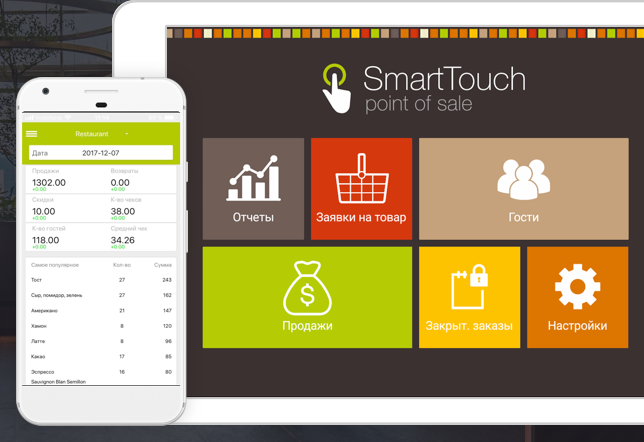
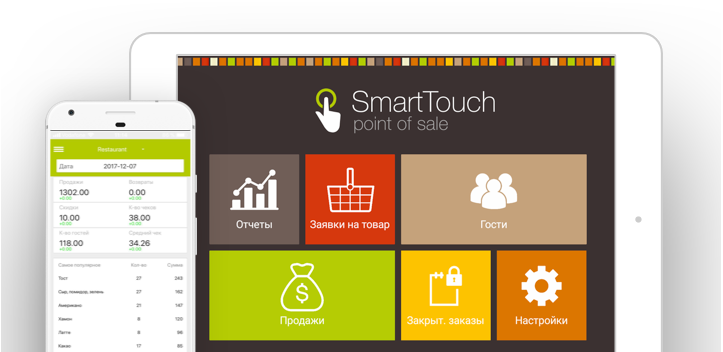
Corrections made

diff --git a/public/css/main.css b/public/css/main.css
@@ -1753,7 +1753,9 @@ label {
         display: block;
         width: 21.4rem;
         margin-left: auto;
-        margin-right: auto; } }
+        margin-right: auto;
+        margin-top: 1.6rem;
+        margin-bottom: 2rem; } }
   @media (min-width: 768px) {
     .first-screen-home {
       height: 64rem;
@@ -1775,7 +1777,6 @@ label {
       .first-screen-home .btn-primary {
         display: inline-block;
         width: 21.4rem;
-        margin-top: 1.6rem;
         margin-bottom: 0; }
       .first-screen-home .image {
         display: none; } }
@@ -2387,54 +2388,49 @@ label {
   right: 0;
   top: 0;
   bottom: 0;
-  padding-top: 6rem;
-  background-color: #fafbfc;
+  padding: 6rem 2.4rem 2.4rem;
   display: flex;
   flex-direction: column;
   justify-content: space-around;
   align-items: center;
   color: rgba(20, 22, 34, 0.87);
   text-align: center; }
-  .form-success .btn-transparent {
+  .form-success .btn-text {
     align-self: flex-start;
     width: auto;
     font-size: 2.4rem;
     font-weight: bold;
     text-transform: capitalize;
     color: rgba(20, 22, 34, 0.87); }
-    .form-success .btn-transparent:hover {
-      color: #0069ff; }
-    .form-success .btn-transparent img {
+    .form-success .btn-text:hover {
+      opacity: 0.6; }
+    .form-success .btn-text img {
       margin-right: .4rem;
       margin-bottom: .4rem; }
   .form-success .image {
-    height: 31rem;
-    width: 39.5rem;
-    border: 1px solid #000; }
+    max-width: 36.8rem; }
   .form-success h2 {
     margin: 0;
     font-size: 3.2rem;
     font-weight: 300;
     line-height: 4.4rem; }
   .form-success p {
-    width: 36rem;
+    max-width: 37rem;
     font-size: 1.4rem;
     line-height: 2rem;
     text-align: center; }
   .form-success .btn-primary {
-    width: 12rem;
-    margin-bottom: 2rem;
-    background-color: #0069ff;
-    color: #fff; }
-    .form-success .btn-primary:hover {
-      background-color: #3387ff; }
+    width: 12rem; }
+  @media (max-height: 544px) {
+    .form-success .image {
+      width: 10rem; } }
   @media (min-width: 768px) {
     .form-success {
       padding-top: 7.5rem; }
-      .form-success .btn-transparent {
+      .form-success .btn-text {
         margin-left: 5%; } }
   @media (min-width: 1024px) {
-    .form-success .btn-transparent {
+    .form-success .btn-text {
       margin-left: 7.2rem;
       font-size: 2.8rem; }
     .form-success h2 {

diff --git a/public/html/equipment.html b/public/html/equipment.html
@@ -553,20 +553,13 @@
     </section>
 
     <section class="section cta-section" id="subscribe">
-      <div class="container">
-      	<h2 class="section-heading">Подключайтесь бесплатно!</h2>
-      </div>
       <div class="cta-row-wrapper">
         <div class="container">
           <div class="row cta-row">
             <div class="col m-4 l-6">
               <div class="col-inner">
                 <h3 class="second-heading">Зарегистрируйтесь сейчас и получите гарантированную скидку 5%</h3>
-                <p class="description">Хотите увидеть работу системы своими глазами? Оставьте заявку на бесплатный тест.
-                  Наш специалист свяжется
-                  с вами, проведёт презентацию приложений SmartTouch POS и поможет подключиться. За 14 дней пробного
-                  периода
-                  вы получите первые результаты от автоматизации бизнеса.</p>
+                <p class="description">Хотите увидеть работу системы своими глазами? Оставьте заявку на бесплатный тест. Наш специалист свяжется с вами, проведёт презентацию приложений SmartTouch POS и поможет подключиться. За 14 дней пробного периода вы получите первые результаты от автоматизации бизнеса.</p>
               </div>
             </div>
             <div class="col m-8 l-6 cta-form-wrapper">
@@ -814,11 +807,11 @@
     </div>
   </footer>
 
-  <!-- ----- Modal ----- -->
+  <!-- ===== Modal ===== -->
   <div class="modal-holder hide" id="ctaForm">
     <div class="modal">
       <div class="cta-form card">
-        <form action="">
+        <form>
 
           <h5 class="form-label">Заполните форму:</h5>
           <div class="row">

diff --git a/public/scss/modules/_form-success.scss b/public/scss/modules/_form-success.scss
@@ -4,8 +4,7 @@
 	right: 0;
 	top: 0;
 	bottom: 0;
-	padding-top: 6rem;
-	background-color: #fafbfc;
+	padding: 6rem 2.4rem 2.4rem;
 	display: flex;
 	flex-direction: column;
 	justify-content: space-around;
@@ -13,7 +12,7 @@
 	color: rgba(20, 22, 34, 0.87);
 	text-align: center;
 
-	.btn-transparent {
+	.btn-text {
 		align-self: flex-start;
 		width: auto;
 		font-size: 2.4rem;
@@ -22,7 +21,7 @@
 		color: rgba(20,22,34,0.87);
 
 		&:hover {
-			color: $btn-primary;
+			opacity: 0.6;
 		}
 
 		img {
@@ -32,15 +31,8 @@
 	}
 
 	.image {
-		height: 31rem;
-		width: 39.5rem;
-		border: 1px solid #000;
+		max-width: 36.8rem;
 	}
-
-	// .image  img {
-	// 	width: 100%;
-	// 	max-height: 31rem;
-	// }
 
 	h2 {
 		margin: 0;
@@ -50,7 +42,7 @@
 	}
 
 	p {
-		width: 36rem;
+		max-width: 37rem;
 		font-size: 1.4rem;
 		line-height: 2rem;
 		text-align: center;
@@ -58,25 +50,24 @@
 
 	.btn-primary {
 		width: 12rem;
-		margin-bottom: 2rem;
-		background-color: $btn-primary;
-    color: $white;
+	}
 
-    &:hover {
-      background-color: lighten($btn-primary, 10%);
-    }
+	@media (max-height: $small-screen) {
+		.image {
+			width: 10rem;
+		}
 	}
 
 	@media (min-width: $medium-screen) {
 		padding-top: 7.5rem;
 
-		.btn-transparent {
+		.btn-text {
 			margin-left: 5%;
 		}
 	}
 
 	@media (min-width: $large-screen) {
-		.btn-transparent {
+		.btn-text {
 			margin-left: 7.2rem;
 			font-size: 2.8rem;
 		}

diff --git a/public/html/index.html b/public/html/index.html
@@ -77,7 +77,7 @@
           <p>SmartTouch POS – инновационная система автоматизации ресторана, кафе, кофейни, киоска, магазина. Вы в кратчайшие сроки наведёте порядок в учёте и организуете комфортное обслуживание ваших гостей. Забудьте о бумажной рутине и сложных программах. Получайте быстрые отчёты с подробным анализом и принимайте обоснованные решения по развитию вашего дела.</p>
           <button class="btn btn-primary">Попробовать бесплатно</button>
           <div class="image">
-            <img src="../img/mockups.jpg" alt="image">
+            <img src="../img/mockups.png" alt="image">
           </div>
         </div>
       </section>
@@ -775,11 +775,11 @@
     </div>
   </footer>
 
-  <!-- ----- Modal ----- -->
+  <!-- ===== Modal ===== -->
   <div class="modal-holder hide" id="ctaForm">
     <div class="modal">
       <div class="cta-form card">
-        <form action="">
+        <form>
 
           <h5 class="form-label">Заполните форму:</h5>
           <div class="row">

diff --git a/public/html/form-success.html b/public/html/form-success.html
@@ -59,7 +59,7 @@
               </ul>
             </li>
             <li class="nav-list-item hide-xs hide-s hide-m">
-              <button class="btn btn-primary openConversionForm">Попробовать бесплатно</button>
+              <button class="btn btn-bordered openConversionForm">Попробовать бесплатно</button>
             </li>
           </ul>
         </div>
@@ -69,9 +69,9 @@
 
   <main class="main-content form-success">
 
-    <button class="btn btn-transparent"><img src="../img/ic_arrow_left.svg">Регистрация</button>
+    <button class="btn btn-text"><img src="../img/ic_arrow_left.svg">Регистрация</button>
     <div class="image">
-      <img src="../img/">
+      <img src="../img/pic-form-success.jpg">
     </div>
     <div>
       <h2>Спасибо!</h2>

diff --git a/public/scss/modules/_first-screen.scss b/public/scss/modules/_first-screen.scss
@@ -41,6 +41,8 @@
       width: 21.4rem;
       margin-left: auto;
       margin-right: auto;
+      margin-top: 1.6rem;
+      margin-bottom: 2rem;
     }
   }
 
@@ -73,7 +75,6 @@
     .btn-primary {
       display: inline-block;
       width: 21.4rem;
-      margin-top: 1.6rem;
       margin-bottom: 0;
     }
 
